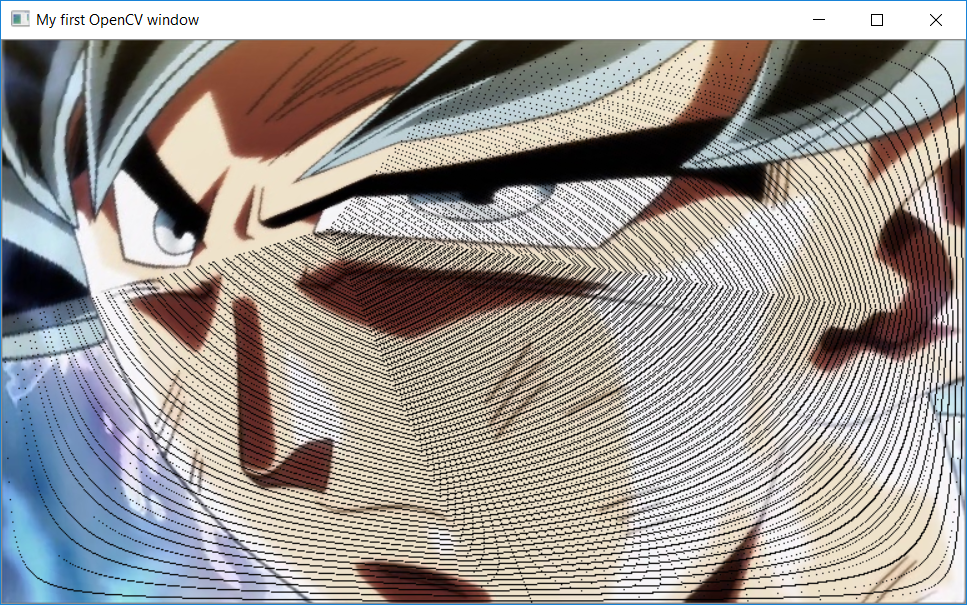
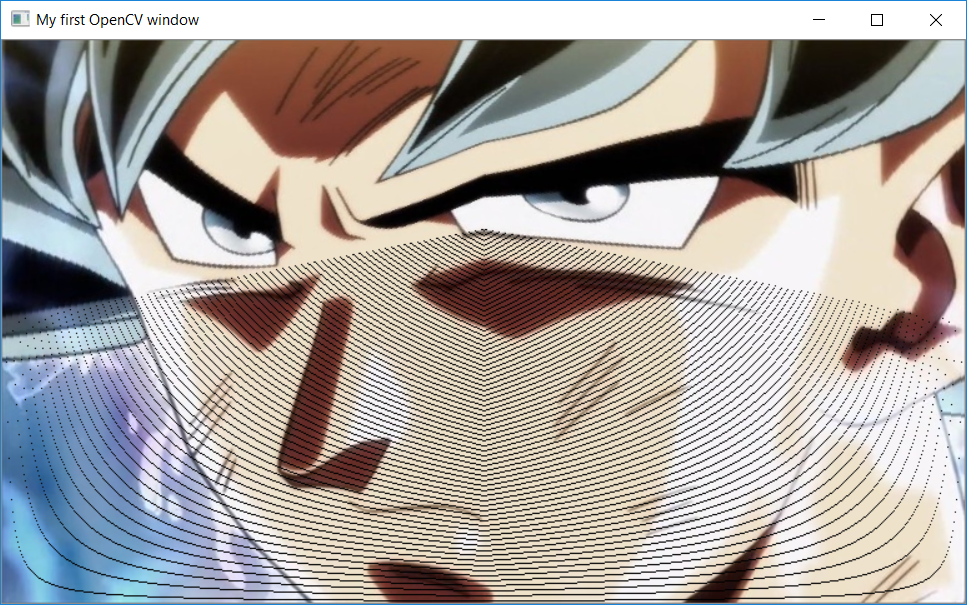
Add files via upload

diff --git a/Transformacion/transformaciones.py b/Transformacion/transformaciones.py
@@ -4,7 +4,7 @@ from matplotlib import pyplot as plt
 from numpy import linalg
 
 
-def TransformacionBilineal(A,Bx,By,ImgO,ImgR,height1,width1,height2,width2):
+def TransformacionBilineal2(A,Bx,By,ImgO,ImgR,height1,width1,height2,width2):
     Solutions2=np.linalg.solve(A,By)
     Solutions1=np.linalg.solve(A,Bx)#cramer(A,B)
     for i in range(height1,height2):
@@ -13,10 +13,53 @@ def TransformacionBilineal(A,Bx,By,ImgO,ImgR,height1,width1,height2,width2):
             vector=np.array(vector)
             vector=vector.astype(np.float)
             Solutions1=np.array(Solutions1)
-            x=int(round(sum(vector*Solutions1)))
+            x=round(sum(vector*Solutions1))
             Solutions2=np.array(Solutions2)
-            y=int(round(sum(vector*Solutions2)))
-            ImgR[y,x]=ImgO[i,j]
+            y=round(sum(vector*Solutions2))
+            x=int(x)#+0.5)
+            y=int(y)#+0.5)
+            if(x<width2 and y<height2):
+                ImgR[y,x]=ImgO[i,j]
+            for y1 in range(2):
+                for x1 in range(2):
+                    #print(ImgR[y1,x1])
+                    if(x+x1<width):
+                        if(y+y1<height):
+                            if(ImgR[y+y1,x+x1][0]==0 and ImgR[y+y1,x+x1][1]==0 and ImgR[y+y1,x+x1][2]==0):
+                                #print("aqui", x1,y1)
+                                ImgR[y+y1,x+x1]=ImgO[i,j]
+                        if(y-y1>height):
+                            if(ImgR[y-y1,x+x1][0]==0 and ImgR[y-y1,x+x1][1]==0 and ImgR[y-y1,x+x1][2]==0):
+                                    #print("aqui", x1,y1)
+                                ImgR[y-y1,x+x1]=ImgO[i,j]
+                    if(x-x1>width):
+                        if(y+y1<height):
+                            if(ImgR[y+y1,x-x1][0]==0 and ImgR[y+y1,x-x1][1]==0 and ImgR[y+y1,x-x1][2]==0):
+                                #print("aqui", x1,y1)
+                                ImgR[y+y1,x-x1]=ImgO[i,j]
+                        if(y-y1>height  ):
+                            if(ImgR[y-y1,x-x1][0]==0 and ImgR[y-y1,x-x1][1]==0 and ImgR[y-y1,x-x1][2]==0):
+                            #print("aqui", x1,y1)
+                                ImgR[y+y1,x-x1]=ImgO[i,j]
+    return
+
+def TransformacionBilineal1(A,Bx,By,ImgO,ImgR,height1,width1,height2,width2):
+    Solutions2=np.linalg.solve(A,By)
+    Solutions1=np.linalg.solve(A,Bx)#cramer(A,B)
+    for i in range(height1,height2):
+        for j in range(width1,width2):
+            vector=[j,i,i*j,1]
+            vector=np.array(vector)
+            vector=vector.astype(np.float)
+            Solutions1=np.array(Solutions1)
+            x=round(sum(vector*Solutions1))
+            Solutions2=np.array(Solutions2)
+            y=round(sum(vector*Solutions2))
+            x=int(x)#+0.5)
+            y=int(y)#+0.5)
+            if(x<width and y<height):
+                ImgR[y,x]=ImgO[i,j]
+
     return
 
 def mostrar(img):
@@ -61,17 +104,17 @@ Yr=[[(height//4)*0,(height//4)*0,(height//4)*1,(height//4)*1],
 X=[(width//2)*0,(width//2)*1,(width//2)*2]
 Y=[(height//2)*0,(height//2)*1,(height//2)*2]
 
-XR=500
-YR=225
+XR=385
+YR=350
 
 Xr=[[(width//2)*0,(width//2)*1,XR,(width//2)*0],
     [(width//2)*1,(width//2)*2,(width//2)*2,XR],
     [(width//2)*0,XR,(width//2)*1,(width//2)*0],
-    [XR,(width//2)*2,(width//2)*2,(width//2)*1]]
+    [XR,((width-1)//2)*2,((width-1)//2)*2,((width-1)//2)*1]]
 Yr=[[(height//2)*0,(height//2)*0,YR,(height//2)*1],
     [(height//2)*0,(height//2)*0,(height//2)*1,YR],
     [(height//2)*1,YR,(height//2)*2,(height//2)*2],
-    [YR,(height//2)*1,(height//2)*2,(height//2)*2]]
+    [YR,((height-1)//2)*1,((height-1)//2)*2,((height-1)//2)*2]]
 #while(True):
 ##    for i in range(height):
 ##        for j in range(width):
@@ -95,11 +138,35 @@ for i in range(2):
         A=np.array(A)
         Bx=np.array(Bx)
         By=np.array(By)
-        TransformacionBilineal(A,Bx,By,img,img2,Y[i],X[j],Y[i+1],X[j+1])
+        TransformacionBilineal2(A,Bx,By,img,img2,Y[i],X[j],Y[i+1],X[j+1])
             #mostrar(img2)
-
 mostrar(img2)
 
+RGB=[0,0,0]
+type(RGB)
+img2=img.copy()
+for i in range(height):
+    for j in range(width):
+        img2[i,j]=RGB
+
+for i in range(2):
+    for j in range(2):
+        A=[
+        [X[j],Y[i],Y[i]*X[j],1],
+        [X[j+1],Y[i],Y[i]*X[j+1],1],
+        [X[j+1],Y[i+1],Y[i+1]*X[j+1],1],
+        [X[j],Y[i+1],Y[i+1]*X[j],1],
+        ]
+
+        Bx=[Xr[j+(i*2)][0],Xr[j+(i*2)][1],Xr[j+(i*2)][2],Xr[j+(i*2)][3]]
+        By=[Yr[j+(i*2)][0],Yr[j+(i*2)][1],Yr[j+(i*2)][2],Yr[j+(i*2)][3]]
+
+        A=np.array(A)
+        Bx=np.array(Bx)
+        By=np.array(By)
+        TransformacionBilineal1(A,Bx,By,img,img2,Y[i],X[j],Y[i+1],X[j+1])
+            #mostrar(img2)
+mostrar(img2)
     #break
 
 #mostrar(img)
